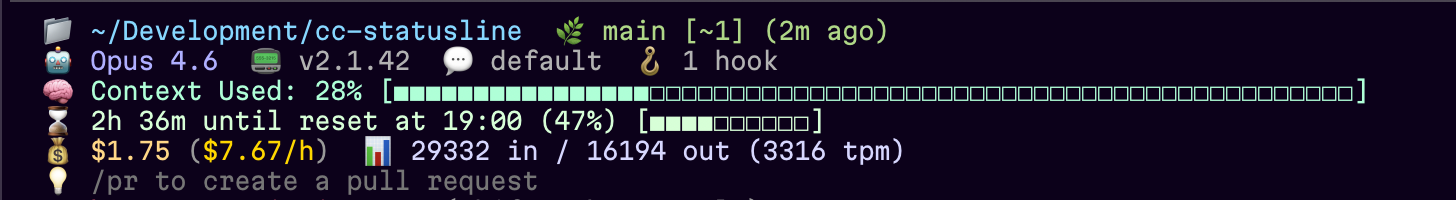
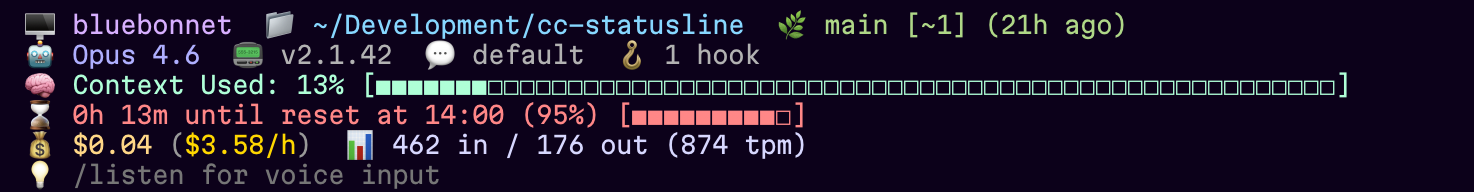
Add hostname display to statusline
Shows the computer name (via hostname -s) as the first element on
line 1 with a soft pink/mauve color and 🖥 icon.

Changed region(s): [[0.0, 0.0625, 0.9581, 1.0], [0.0, 0.0, 1.0, 0.0312]]

diff --git a/CLAUDE.md b/CLAUDE.md
@@ -4,7 +4,7 @@ This file provides guidance to Claude Code (claude.ai/code) when working with co
 
 ## Project Overview
 
-A custom Claude Code statusline — a single bash script (`statusline.sh`) that transforms Claude Code's JSON session data into a 6-line colored terminal display showing directory/git info, environment, context usage, session timer, cost/tokens, and rotating tips.
+A custom Claude Code statusline — a single bash script (`statusline.sh`) that transforms Claude Code's JSON session data into a 6-line colored terminal display showing hostname, directory/git info, environment, context usage, session timer, cost/tokens, and rotating tips.
 
 Generated by the npm package `@chongdashu/cc-statusline` v1.4.0. Source: https://github.com/chongdashu/cc-statusline
 
@@ -36,15 +36,16 @@ The script is deployed to `~/.claude/statusline.sh` and configured via `~/.claud
 | 194–228   | Context window percentage calculation                      |
 | 230–294   | Cost, token counts, burn rate, tokens/minute               |
 | 296–314   | Session reset time (5-hour rolling window)                 |
-| 316–403   | Rendering: assembles and prints the 6 output lines         |
-| 405–461   | Tips array (45 entries) and final output                   |
+| 315–317   | Hostname detection                                         |
+| 319–406   | Rendering: assembles and prints the 6 output lines         |
+| 408–464   | Tips array (45 entries) and final output                   |
 
 ### Key Design Patterns
 
 - **Graceful degradation:** Every feature has a fallback. jq unavailable → bash parsing. Git unavailable → skip git line. Missing JSON fields → sensible defaults.
 - **Dual JSON parsing:** `HAS_JQ` flag controls whether `jq` or `extract_json_string()` (grep/sed) is used.
 - **Dynamic colors:** Context bar color shifts green→peach→red based on usage %. Session timer color shifts similarly.
-- **Data sources:** Session JSON (stdin) for model/context/cost, `~/.claude/settings.json` for MCP/hooks counts, `git` commands for repo status.
+- **Data sources:** Session JSON (stdin) for model/context/cost, `~/.claude/settings.json` for MCP/hooks counts, `git` commands for repo status, `hostname` for computer name.
 
 ### Customization Points
 

diff --git a/README.md b/README.md
@@ -16,10 +16,11 @@ The statusline displays 6 lines:
 
 ![statusline preview](statusline-preview.png)
 
-## Line 1: Directory & Git
+## Line 1: Hostname, Directory & Git
 
 | Element | Description |
 |---------|-------------|
+| 🖥 | Computer hostname |
 | 📁 | Current working directory |
 | 🌿 | Git branch name |
 | `[+N ~N -N ●N]` | Uncommitted changes: +added, ~modified, -deleted, ●staged |
@@ -79,6 +80,7 @@ The statusline displays 6 lines:
 Color functions are defined near the top of the script:
 
 ```bash
+host_color()       # 38;5;183 - soft pink/mauve
 dir_color()        # 38;5;117 - sky blue
 git_color()        # 38;5;150 - soft green
 model_color()      # 38;5;147 - light purple
@@ -135,6 +137,7 @@ Tips rotate based on: `$(date +%s) / 60 % ${#tips[@]}`
 | Data | Source |
 |------|--------|
 | Directory, model, context, cost, tokens | Piped JSON from Claude Code |
+| Hostname | `hostname` command |
 | Git info | Direct git commands |
 | MCP servers, hooks | `~/.claude/settings.json` |
 
